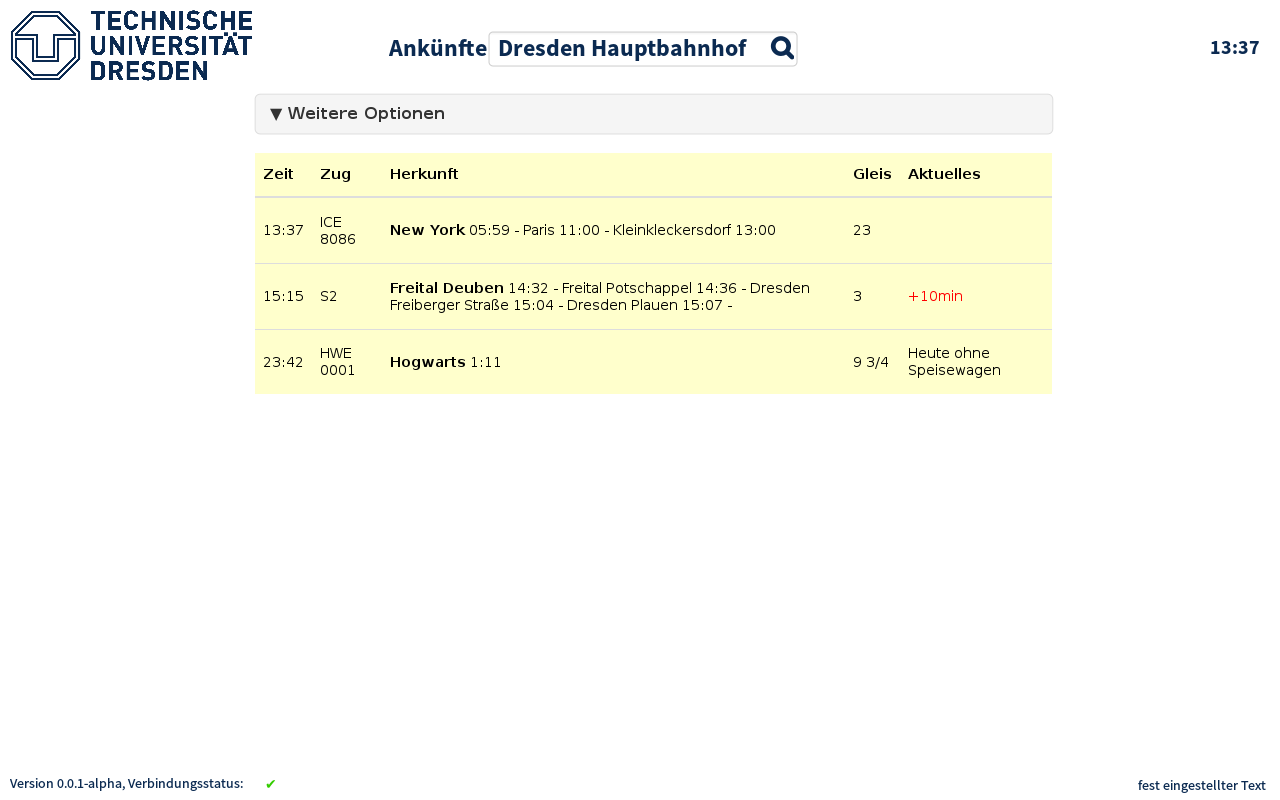
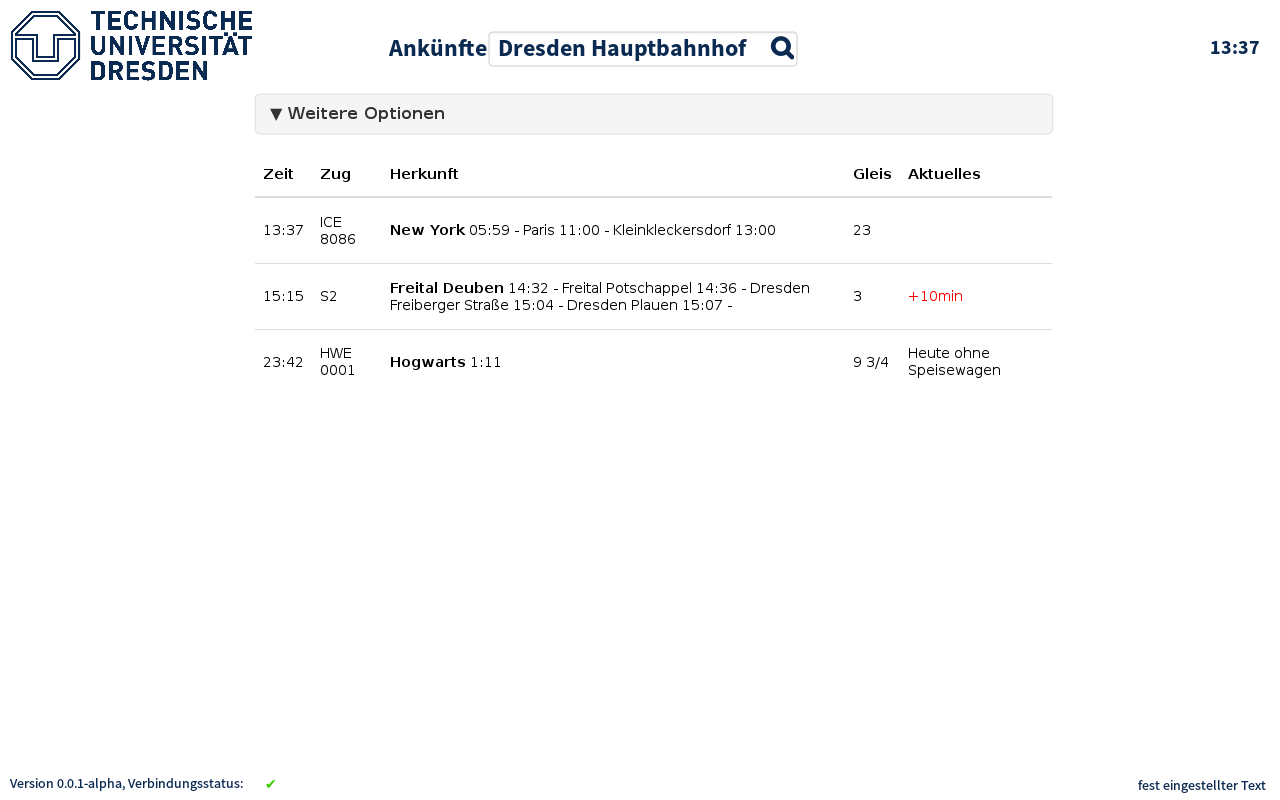
changed color of arrivals list + train search layout fixed

Changed region(s): [[0.1875, 0.1875, 0.8438, 0.5]]

diff --git a/prototypes/GUI_prototype/index.html b/prototypes/GUI_prototype/index.html
@@ -1,1 +1,1 @@
-<html xmlns="http://www.w3.org/1999/xhtml"><head><meta http-equiv="Content-Type" content="text/html; charset=UTF-8" /><title>GUI-draft.ep</title><link rel="stylesheet" href="Resources/SampleStyle.css" /></head><body><h1 id="documentTitle">GUI-draft.ep</h1><p id="documentMetadata">Exported at: Fri Oct 30 2015 00:30:56 GMT+0100 (CET)</p><div class="Page" id="search_departures_page"><h2>Search Departures</h2><div class="ImageContainer"><img width="1280" height="800" src="pages/search_departures.png" usemap="#map_search_departures" /></div><map name="map_search_departures"><area shape="rect" coords="454,171,552,213" href="#search_train_page" title="Go to page 'Search Train'" /><area shape="rect" coords="358,171,456,213" href="#search_arrivals_page" title="Go to page 'Search Arrivals'" /><area shape="rect" coords="895,224,1024,262" href="#departures_page" title="Go to page 'Departures'" /><area shape="rect" coords="10.5,11,252.51666259765625,82" href="#search_departures_page" title="Go to page 'Search Departures'" /></map></div><div class="Page" id="search_arrivals_page"><h2>Search Arrivals</h2><div class="ImageContainer"><img width="1280" height="800" src="pages/search_arrivals.png" usemap="#map_search_arrivals" /></div><map name="map_search_arrivals"><area shape="rect" coords="454,171,552,213" href="#search_train_page" title="Go to page 'Search Train'" /><area shape="rect" coords="259,171,357,213" href="#search_departures_page" title="Go to page 'Search Departures'" /><area shape="rect" coords="895,224,1024,262" href="#arrivals_page" title="Go to page 'Arrivals'" /><area shape="rect" coords="10.5,11,252.51666259765625,82" href="#search_departures_page" title="Go to page 'Search Departures'" /></map></div><div class="Page" id="search_train_page"><h2>Search Train</h2><div class="ImageContainer"><img width="1280" height="800" src="pages/search_train.png" usemap="#map_search_train" /></div><map name="map_search_train"><area shape="rect" coords="358,171,456,213" href="#search_arrivals_page" title="Go to page 'Search Arrivals'" /><area shape="rect" coords="259,171,357,213" href="#search_departures_page" title="Go to page 'Search Departures'" /><area shape="rect" coords="895,224,1024,262" href="#train_page" title="Go to page 'Train'" /><area shape="rect" coords="10.5,11,252.51666259765625,82" href="#search_departures_page" title="Go to page 'Search Departures'" /></map></div><div class="Page" id="departures_page"><h2>Departures</h2><div class="ImageContainer"><img width="1280" height="800" src="pages/departures.png" usemap="#map_departures" /></div><map name="map_departures"><area shape="rect" coords="10.5,11,252.51666259765625,82" href="#search_departures_page" title="Go to page 'Search Departures'" /></map></div><div class="Page" id="arrivals_page"><h2>Arrivals</h2><div class="ImageContainer"><img width="1280" height="800" src="pages/arrivals.png" usemap="#map_arrivals" /></div><map name="map_arrivals"><area shape="rect" coords="10.5,11,252.51666259765625,82" href="#search_departures_page" title="Go to page 'Search Departures'" /></map></div><div class="Page" id="train_page"><h2>Train</h2><div class="ImageContainer"><img width="1280" height="800" src="pages/train.png" usemap="#map_train" /></div><map name="map_train"><area shape="rect" coords="10.5,11,252.51666259765625,82" href="#search_departures_page" title="Go to page 'Search Departures'" /></map></div></body></html>
+<html xmlns="http://www.w3.org/1999/xhtml"><head><meta http-equiv="Content-Type" content="text/html; charset=UTF-8" /><title>GUI-draft.ep</title><link rel="stylesheet" href="Resources/SampleStyle.css" /></head><body><h1 id="documentTitle">GUI-draft.ep</h1><p id="documentMetadata">Exported at: Fri Oct 30 2015 09:59:44 GMT+0100 (CET)</p><div class="Page" id="search_departures_page"><h2>Search Departures</h2><div class="ImageContainer"><img width="1280" height="800" src="pages/search_departures.png" usemap="#map_search_departures" /></div><map name="map_search_departures"><area shape="rect" coords="454,171,552,213" href="#search_train_page" title="Go to page 'Search Train'" /><area shape="rect" coords="358,171,456,213" href="#search_arrivals_page" title="Go to page 'Search Arrivals'" /><area shape="rect" coords="895,224,1024,262" href="#departures_page" title="Go to page 'Departures'" /><area shape="rect" coords="10.5,11,252.51666259765625,82" href="#search_departures_page" title="Go to page 'Search Departures'" /></map></div><div class="Page" id="search_arrivals_page"><h2>Search Arrivals</h2><div class="ImageContainer"><img width="1280" height="800" src="pages/search_arrivals.png" usemap="#map_search_arrivals" /></div><map name="map_search_arrivals"><area shape="rect" coords="454,171,552,213" href="#search_train_page" title="Go to page 'Search Train'" /><area shape="rect" coords="259,171,357,213" href="#search_departures_page" title="Go to page 'Search Departures'" /><area shape="rect" coords="895,224,1024,262" href="#arrivals_page" title="Go to page 'Arrivals'" /><area shape="rect" coords="10.5,11,252.51666259765625,82" href="#search_departures_page" title="Go to page 'Search Departures'" /></map></div><div class="Page" id="search_train_page"><h2>Search Train</h2><div class="ImageContainer"><img width="1280" height="800" src="pages/search_train.png" usemap="#map_search_train" /></div><map name="map_search_train"><area shape="rect" coords="358,171,456,213" href="#search_arrivals_page" title="Go to page 'Search Arrivals'" /><area shape="rect" coords="259,171,357,213" href="#search_departures_page" title="Go to page 'Search Departures'" /><area shape="rect" coords="895,224,1024,262" href="#train_page" title="Go to page 'Train'" /><area shape="rect" coords="10.5,11,252.51666259765625,82" href="#search_departures_page" title="Go to page 'Search Departures'" /></map></div><div class="Page" id="departures_page"><h2>Departures</h2><div class="ImageContainer"><img width="1280" height="800" src="pages/departures.png" usemap="#map_departures" /></div><map name="map_departures"><area shape="rect" coords="10.5,11,252.51666259765625,82" href="#search_departures_page" title="Go to page 'Search Departures'" /></map></div><div class="Page" id="arrivals_page"><h2>Arrivals</h2><div class="ImageContainer"><img width="1280" height="800" src="pages/arrivals.png" usemap="#map_arrivals" /></div><map name="map_arrivals"><area shape="rect" coords="10.5,11,252.51666259765625,82" href="#search_departures_page" title="Go to page 'Search Departures'" /></map></div><div class="Page" id="train_page"><h2>Train</h2><div class="ImageContainer"><img width="1280" height="800" src="pages/train.png" usemap="#map_train" /></div><map name="map_train"><area shape="rect" coords="10.5,11,252.51666259765625,82" href="#search_departures_page" title="Go to page 'Search Departures'" /></map></div></body></html>
